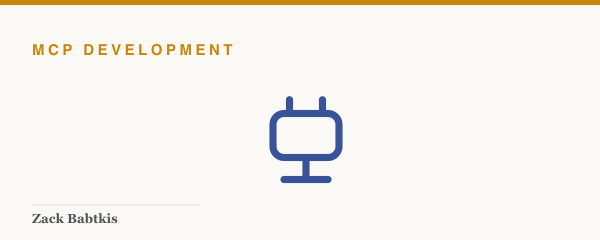
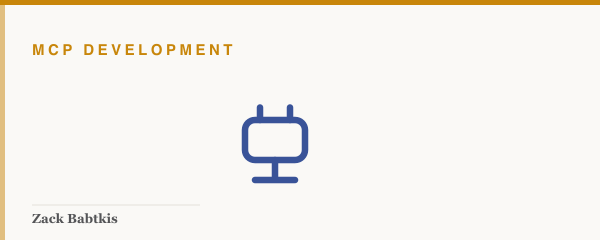
feat: per-article thumbnail variation + world-boundary and rule-budget diagrams

Changed region(s): [[0.39, 0.4083, 0.57, 0.7875], [0.0, 0.0292, 0.03, 1.0]]

diff --git a/components/diagrams/world-boundary.tsx b/components/diagrams/world-boundary.tsx
@@ -1,0 +1,64 @@
+/**
+ * Hand-drawn SVG: the MAIN/isolated world boundary inside one page.
+ * Both worlds share the DOM; neither can call the other's JavaScript.
+ */
+export function WorldBoundaryDiagram() {
+  const ink = '#1c1e21';
+  const navy = '#24418e';
+  const amber = '#c8860a';
+  const rule = '#d8d4cb';
+  const mono = "ui-monospace, 'SF Mono', Menlo, monospace";
+
+  return (
+    <figure className="diagram">
+      <svg
+        viewBox="0 0 720 340"
+        role="img"
+        aria-label="Diagram: one web page contains two JavaScript worlds. The isolated world holds the extension's content script and its browser APIs. The MAIN world holds the page's own JavaScript and window variables. A barrier between them blocks direct calls. Both connect downward to the same shared DOM, which is the only bridge."
+      >
+        {/* page frame */}
+        <rect x="16" y="16" width="688" height="308" rx="10" fill="none" stroke={ink} strokeWidth="1.5" />
+        <text x="36" y="44" fontFamily={mono} fontSize="13" fill={ink} opacity="0.6">the web page</text>
+
+        {/* isolated world */}
+        <rect x="48" y="66" width="280" height="130" rx="8" fill="none" stroke={navy} strokeWidth="1.5" />
+        <text x="188" y="94" textAnchor="middle" fontFamily={mono} fontSize="14" fill={navy}>isolated world</text>
+        <text x="188" y="120" textAnchor="middle" fontFamily={mono} fontSize="11" fill={ink}>your content script</text>
+        <text x="188" y="140" textAnchor="middle" fontFamily={mono} fontSize="11" fill={ink}>browser.* APIs ✓</text>
+        <text x="188" y="160" textAnchor="middle" fontFamily={mono} fontSize="11" fill={ink} opacity="0.55">page variables ✗</text>
+
+        {/* MAIN world */}
+        <rect x="392" y="66" width="280" height="130" rx="8" fill="none" stroke={ink} strokeWidth="1.5" />
+        <text x="532" y="94" textAnchor="middle" fontFamily={mono} fontSize="14" fill={ink}>MAIN world</text>
+        <text x="532" y="120" textAnchor="middle" fontFamily={mono} fontSize="11" fill={ink}>the page&apos;s JavaScript</text>
+        <text x="532" y="140" textAnchor="middle" fontFamily={mono} fontSize="11" fill={ink}>window variables ✓</text>
+        <text x="532" y="160" textAnchor="middle" fontFamily={mono} fontSize="11" fill={ink} opacity="0.55">browser.* APIs ✗</text>
+
+        {/* barrier */}
+        <line x1="360" y1="72" x2="360" y2="190" stroke={amber} strokeWidth="3" strokeDasharray="8 6" />
+        <text x="360" y="215" textAnchor="middle" fontFamily={mono} fontSize="11" fill={amber}>no direct calls</text>
+
+        {/* shared DOM */}
+        <rect x="48" y="240" width="624" height="56" rx="8" fill="none" stroke={ink} strokeWidth="1.5" />
+        <text x="360" y="274" textAnchor="middle" fontFamily={mono} fontSize="14" fill={ink}>shared DOM: the one bridge both worlds can touch</text>
+
+        {/* connectors */}
+        <line x1="188" y1="196" x2="188" y2="232" stroke={navy} strokeWidth="1.5" markerEnd="url(#wb-navy)" />
+        <line x1="532" y1="196" x2="532" y2="232" stroke={ink} strokeWidth="1.5" markerEnd="url(#wb-ink)" />
+
+        <defs>
+          <marker id="wb-navy" viewBox="0 0 10 10" refX="9" refY="5" markerWidth="7" markerHeight="7" orient="auto-start-reverse">
+            <path d="M 0 0 L 10 5 L 0 10 z" fill={navy} />
+          </marker>
+          <marker id="wb-ink" viewBox="0 0 10 10" refX="9" refY="5" markerWidth="7" markerHeight="7" orient="auto-start-reverse">
+            <path d="M 0 0 L 10 5 L 0 10 z" fill={ink} />
+          </marker>
+        </defs>
+      </svg>
+      <figcaption>
+        Two JavaScript worlds share one page. Each sees things the other
+        cannot, and the DOM is the only surface they both touch.
+      </figcaption>
+    </figure>
+  );
+}

diff --git a/components/diagrams/rule-budget.tsx b/components/diagrams/rule-budget.tsx
@@ -1,0 +1,62 @@
+/**
+ * Hand-drawn SVG: every runtime feature spends from one shared
+ * dynamic-rule pool, and stale rules quietly eat the headroom.
+ */
+export function RuleBudgetDiagram() {
+  const ink = '#1c1e21';
+  const navy = '#24418e';
+  const amber = '#c8860a';
+  const rule = '#d8d4cb';
+  const mono = "ui-monospace, 'SF Mono', Menlo, monospace";
+
+  return (
+    <figure className="diagram">
+      <svg
+        viewBox="0 0 720 250"
+        role="img"
+        aria-label="Diagram: a single horizontal bar represents the extension's shared dynamic-rule budget. Segments for user pauses, a partnership allowlist, and user opt-ins fill part of it. A hatched segment of stale rules from old releases eats more. A small remaining segment is all a new feature has left, with an arrow noting that installs start failing here."
+      >
+        <text x="24" y="36" fontFamily={mono} fontSize="14" fill={ink}>one shared dynamic-rule budget</text>
+
+        {/* the pool */}
+        <rect x="24" y="60" width="672" height="70" rx="8" fill="none" stroke={ink} strokeWidth="1.5" />
+
+        {/* segments */}
+        <rect x="26" y="62" width="170" height="66" fill={navy} opacity="0.85" />
+        <text x="111" y="100" textAnchor="middle" fontFamily={mono} fontSize="11" fill="#fff">user pauses</text>
+
+        <rect x="196" y="62" width="140" height="66" fill={navy} opacity="0.55" />
+        <text x="266" y="100" textAnchor="middle" fontFamily={mono} fontSize="11" fill="#fff">allowlist</text>
+
+        <rect x="336" y="62" width="110" height="66" fill={navy} opacity="0.3" />
+        <text x="391" y="100" textAnchor="middle" fontFamily={mono} fontSize="11" fill={ink}>opt-ins</text>
+
+        {/* stale rules, hatched */}
+        <defs>
+          <pattern id="rb-hatch" width="8" height="8" patternTransform="rotate(45)" patternUnits="userSpaceOnUse">
+            <line x1="0" y1="0" x2="0" y2="8" stroke={rule} strokeWidth="4" />
+          </pattern>
+          <marker id="rb-amber" viewBox="0 0 10 10" refX="9" refY="5" markerWidth="7" markerHeight="7" orient="auto-start-reverse">
+            <path d="M 0 0 L 10 5 L 0 10 z" fill={amber} />
+          </marker>
+        </defs>
+        <rect x="446" y="62" width="170" height="66" fill="url(#rb-hatch)" />
+        <text x="531" y="96" textAnchor="middle" fontFamily={mono} fontSize="11" fill={ink}>stale rules from</text>
+        <text x="531" y="112" textAnchor="middle" fontFamily={mono} fontSize="11" fill={ink}>old releases</text>
+
+        {/* remaining sliver */}
+        <rect x="616" y="62" width="78" height="66" fill="none" />
+        <text x="655" y="100" textAnchor="middle" fontFamily={mono} fontSize="11" fill={ink} opacity="0.5">free</text>
+
+        {/* failure arrow */}
+        <line x1="655" y1="180" x2="655" y2="138" stroke={amber} strokeWidth="1.5" markerEnd="url(#rb-amber)" />
+        <text x="655" y="205" textAnchor="middle" fontFamily={mono} fontSize="12" fill={amber}>your new feature has to fit here</text>
+        <text x="655" y="225" textAnchor="middle" fontFamily={mono} fontSize="11" fill={ink} opacity="0.6">installs start failing when it doesn&apos;t</text>
+      </svg>
+      <figcaption>
+        Every feature spends from the same pool. Without garbage
+        collection, rules from old releases keep their share forever.
+      </figcaption>
+    </figure>
+  );
+}

diff --git a/app/safari-extensions/dynamic-dnr-rules/page.tsx b/app/safari-extensions/dynamic-dnr-rules/page.tsx
@@ -1,6 +1,7 @@
 import type { Metadata } from 'next';
 import { ArticleLayout } from '@/components/article';
 import { Code } from '@/components/code';
+import { RuleBudgetDiagram } from '@/components/diagrams/rule-budget';
 
 export const metadata: Metadata = {
   title: 'Dynamic declarativeNetRequest Rules: Limits, Rule Ownership, and Safari Differences',
@@ -81,6 +82,7 @@ export default function DynamicDnrRulesPage() {
         known per-operation cost in rules for every runtime feature, and
         something that reclaims rules that have outlived their purpose.
       </p>
+      <RuleBudgetDiagram />
       <p>
         The per-operation cost is easy to underestimate. On Pie Adblock,
         a single site pause cost two rules: an <code>allow</code> rule

diff --git a/app/safari-extensions/main-world-scripts/page.tsx b/app/safari-extensions/main-world-scripts/page.tsx
@@ -1,5 +1,6 @@
 import type { Metadata } from 'next';
 import { ArticleLayout } from '@/components/article';
+import { WorldBoundaryDiagram } from '@/components/diagrams/world-boundary';
 import { Code } from '@/components/code';
 
 export const metadata: Metadata = {
@@ -103,6 +104,7 @@ export default function MainWorldScriptsPage() {
       <h2>When you need the MAIN world</h2>
       <p>Most extension work never needs the page&rsquo;s world. Three jobs
         do:</p>
+      <WorldBoundaryDiagram />
       <ul>
         <li>
           Observing or wrapping page-level APIs. Say you need to inspect a
